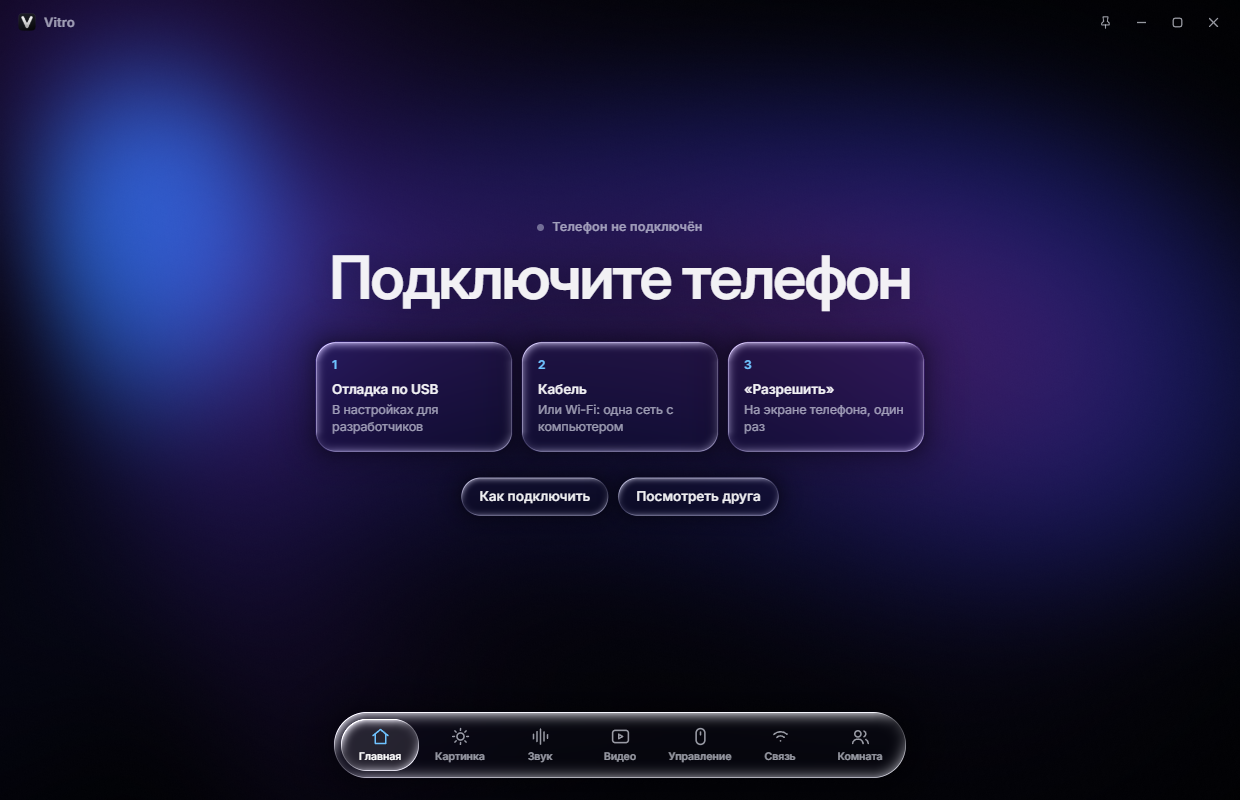
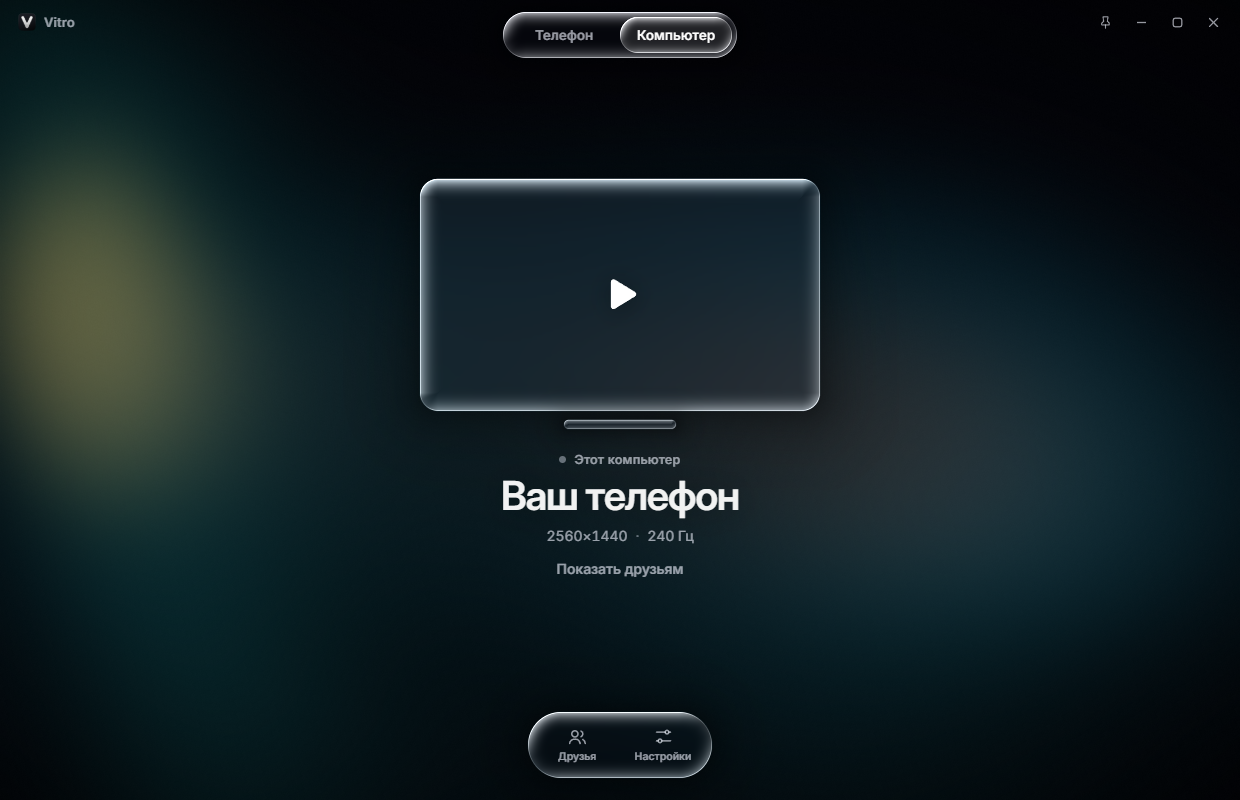
Vitro 0.2.0: project page

diff --git a/docs/index.html b/docs/index.html
@@ -3,7 +3,7 @@
 <head>
 <meta charset="utf-8" />
 <meta name="viewport" content="width=device-width, initial-scale=1" />
-<title>Vitro: телефон на мониторе</title>
+<title>Vitro: телефон и компьютер на мониторе</title>
 <meta name="description" content="Экран Android на мониторе без задержки, с чистым звуком и в родном разрешении. И прямо в окне у друга." />
 <link rel="icon" type="image/png" href="icon.png" />
 <link rel="preconnect" href="https://fonts.googleapis.com" />
@@ -60,7 +60,7 @@
 
   <section class="hero">
     <h1>Телефон на мониторе.<br />Как стекло.</h1>
-    <p class="lead">Экран Android без задержки, с несжатым звуком и в родном разрешении. А ещё прямо в окне у друга, без пережатия Discord.</p>
+    <p class="lead">Телефон или компьютер с частотой самого монитора, с несжатым звуком и в родном разрешении. И прямо в окне у друга, без пережатия Discord.</p>
     <a class="cta" href="https://github.com/Gigatron48/vitro/releases/latest/download/Vitro-Setup.exe">Скачать для Windows</a>
     <p class="small">Windows 10 и 11, Android 7 и новее. Звук с Android 11.</p>
   </section>
@@ -76,6 +76,7 @@
     <tr><td>Сжатый звук</td><td>Несжатый PCM, пресет Hi-Fi не трогает ни сэмпла</td></tr>
     <tr><td>Нет звука на Android 16</td><td>Исправлено, способ захвата переключается сам</td></tr>
     <tr><td>Демонстрация в Discord, текст не читается</td><td>Комната: поток идёт другу напрямую</td></tr>
+    <tr><td>60 к/с при мониторе на 240 Гц</td><td>Частота монитора: 240 к/с на мониторе 240 Гц</td></tr>
   </table>
 
   <h2>Картинка без мыла</h2>
@@ -83,8 +84,8 @@
     <img src="picture.png" alt="Панель настроек картинки поверх видео" />
     <div>
       <ul>
-        <li><b>Частота как на телефоне.</b> Сколько кадров выдаёт экран, столько и приходит.</li>
-        <li><b>Плавность ×2.</b> Дорисовывает кадры по карте движения: телефон на 120 Гц заполняет монитор на 240 Гц.</li>
+        <li><b>Частота как на мониторе.</b> Экран компьютера захватывается и кодируется видеокартой: на 240 Гц идёт 240 настоящих кадров.</li>
+        <li><b>Телефон на быстром мониторе.</b> Недостающие кадры дорисовываются по карте движения: телефон на 120 Гц заполняет монитор на 240 Гц.</li>
         <li><b>Свои фильтры.</b> Масштабирование Lanczos и адаптивная резкость, текст остаётся текстом.</li>
         <li><b>HDR и пресеты.</b> Меняются на лету, прямо во время трансляции.</li>
       </ul>
@@ -98,26 +99,33 @@
         <li><b>Hi-Fi.</b> Несжатые 48 кГц прямо с телефона.</li>
         <li><b>7.1 в наушниках.</b> Стерео раскладывается на виртуальные колонки вокруг головы.</li>
         <li><b>Пресеты.</b> Бас, Чистый звук, Кино, Игры, Ночь, и свой эквалайзер со спектром.</li>
-        <li><b>Без щелчков.</b> Лимитер и плавная подстройка часов телефона и компьютера.</li>
+        <li><b>Без настроек.</b> Способ захвата выбирается сам, задержка держится минимальной.</li>
       </ul>
     </div>
     <img src="sound.png" alt="Панель звука с эквалайзером" />
   </div>
 
   <h2>Комнаты вместо демонстрации</h2>
-  <p class="sub">Друг открывает комнату и зовёт тебя кодом или из Steam. Ты смотришь его телефон в обычном окне: сворачиваешь, переключаешься, играешь, а звук идёт дальше.</p>
+  <p class="sub">Зовёте друга из Steam, и он оказывается рядом с вами. Смотрите телефоны и экраны друг друга в обычном окне: сворачиваете, переключаетесь, играете, а звук идёт дальше.</p>
+  <img class="shot" src="room.png" alt="Комната: показать своё может любой" />
   <div class="grid">
-    <div class="card"><h3>Без пережатия</h3><p>Другу уходит то, что закодировал телефон. Для медленного канала запускается второй кодировщик, а у хозяина качество не падает.</p></div>
-    <div class="card"><h3>Сеть из LowLag</h3><p>Прямой канал, реле Steam как запасной путь, автоматический переход на лучший маршрут, шифрование.</p></div>
-    <div class="card"><h3>Управление по кнопке</h3><p>Хозяин даёт его тумблером и забирает в любой момент. <kbd>Ctrl+Alt+X</kbd> из любой программы мгновенно обрывает показ.</p></div>
+    <div class="card"><h3>Комната остаётся</h3><p>Остановили показ, сменили телефон на компьютер и обратно: никого не выкидывает, все ждут новую картинку.</p></div>
+    <div class="card"><h3>Показать может любой</h3><p>Неважно, кто создал комнату. Нажали на устройство, и все видят ваш телефон или экран.</p></div>
+    <div class="card"><h3>Своё окно выбора</h3><p>Экраны и окна стеклянными карточками с превью. Никаких системных диалогов и плашек браузера.</p></div>
+    <div class="card"><h3>Маркеры</h3><p>Ручка, маркер, стрелка, лазерная указка и цвета на панели слева. Покажите другу, куда нажать.</p></div>
+    <div class="card"><h3>Управление по кнопке</h3><p>Даёте его конкретному человеку и забираете в любой момент. <kbd>Ctrl+Alt+X</kbd> из любой программы мгновенно обрывает показ.</p></div>
+    <div class="card"><h3>Запрет приложений</h3><p>Перед выдачей управления выбираете, куда нельзя заходить. Банки отмечаются сами.</p></div>
   </div>
+
+  <h2>Что показать, решаете вы</h2>
+  <img class="shot" src="picker.png" alt="Выбор экрана или окна в стиле приложения" />
 
   <h2>Как начать</h2>
   <ol>
     <li>Установите Vitro. Windows может предупредить о неизвестном издателе: «Подробнее», затем «Выполнить в любом случае».</li>
-    <li>На телефоне: Настройки → О телефоне → семь раз нажмите «Номер сборки».</li>
-    <li>В разделе «Для разработчиков» включите <b>«Отладка по USB»</b>. На Xiaomi, POCO и Redmi ещё <b>«Отладка по USB (настройки безопасности)»</b>.</li>
-    <li>Подключите кабель, нажмите «Разрешить» на телефоне и большую кнопку в Vitro.</li>
+    <li>Подключите телефон кабелем и нажмите на него в Vitro.</li>
+    <li>Если отладка ещё выключена, Vitro покажет шаги для вашей модели. Включить её за вас нельзя: Android разрешает это только на самом телефоне.</li>
+    <li>Нажмите «Разрешить» на телефоне: трансляция запустится сама.</li>
   </ol>
   <p class="sub" style="margin-top:14px">Дальше можно перейти на Wi-Fi одной кнопкой или по QR-коду: вкладка «Связь».</p>
 
